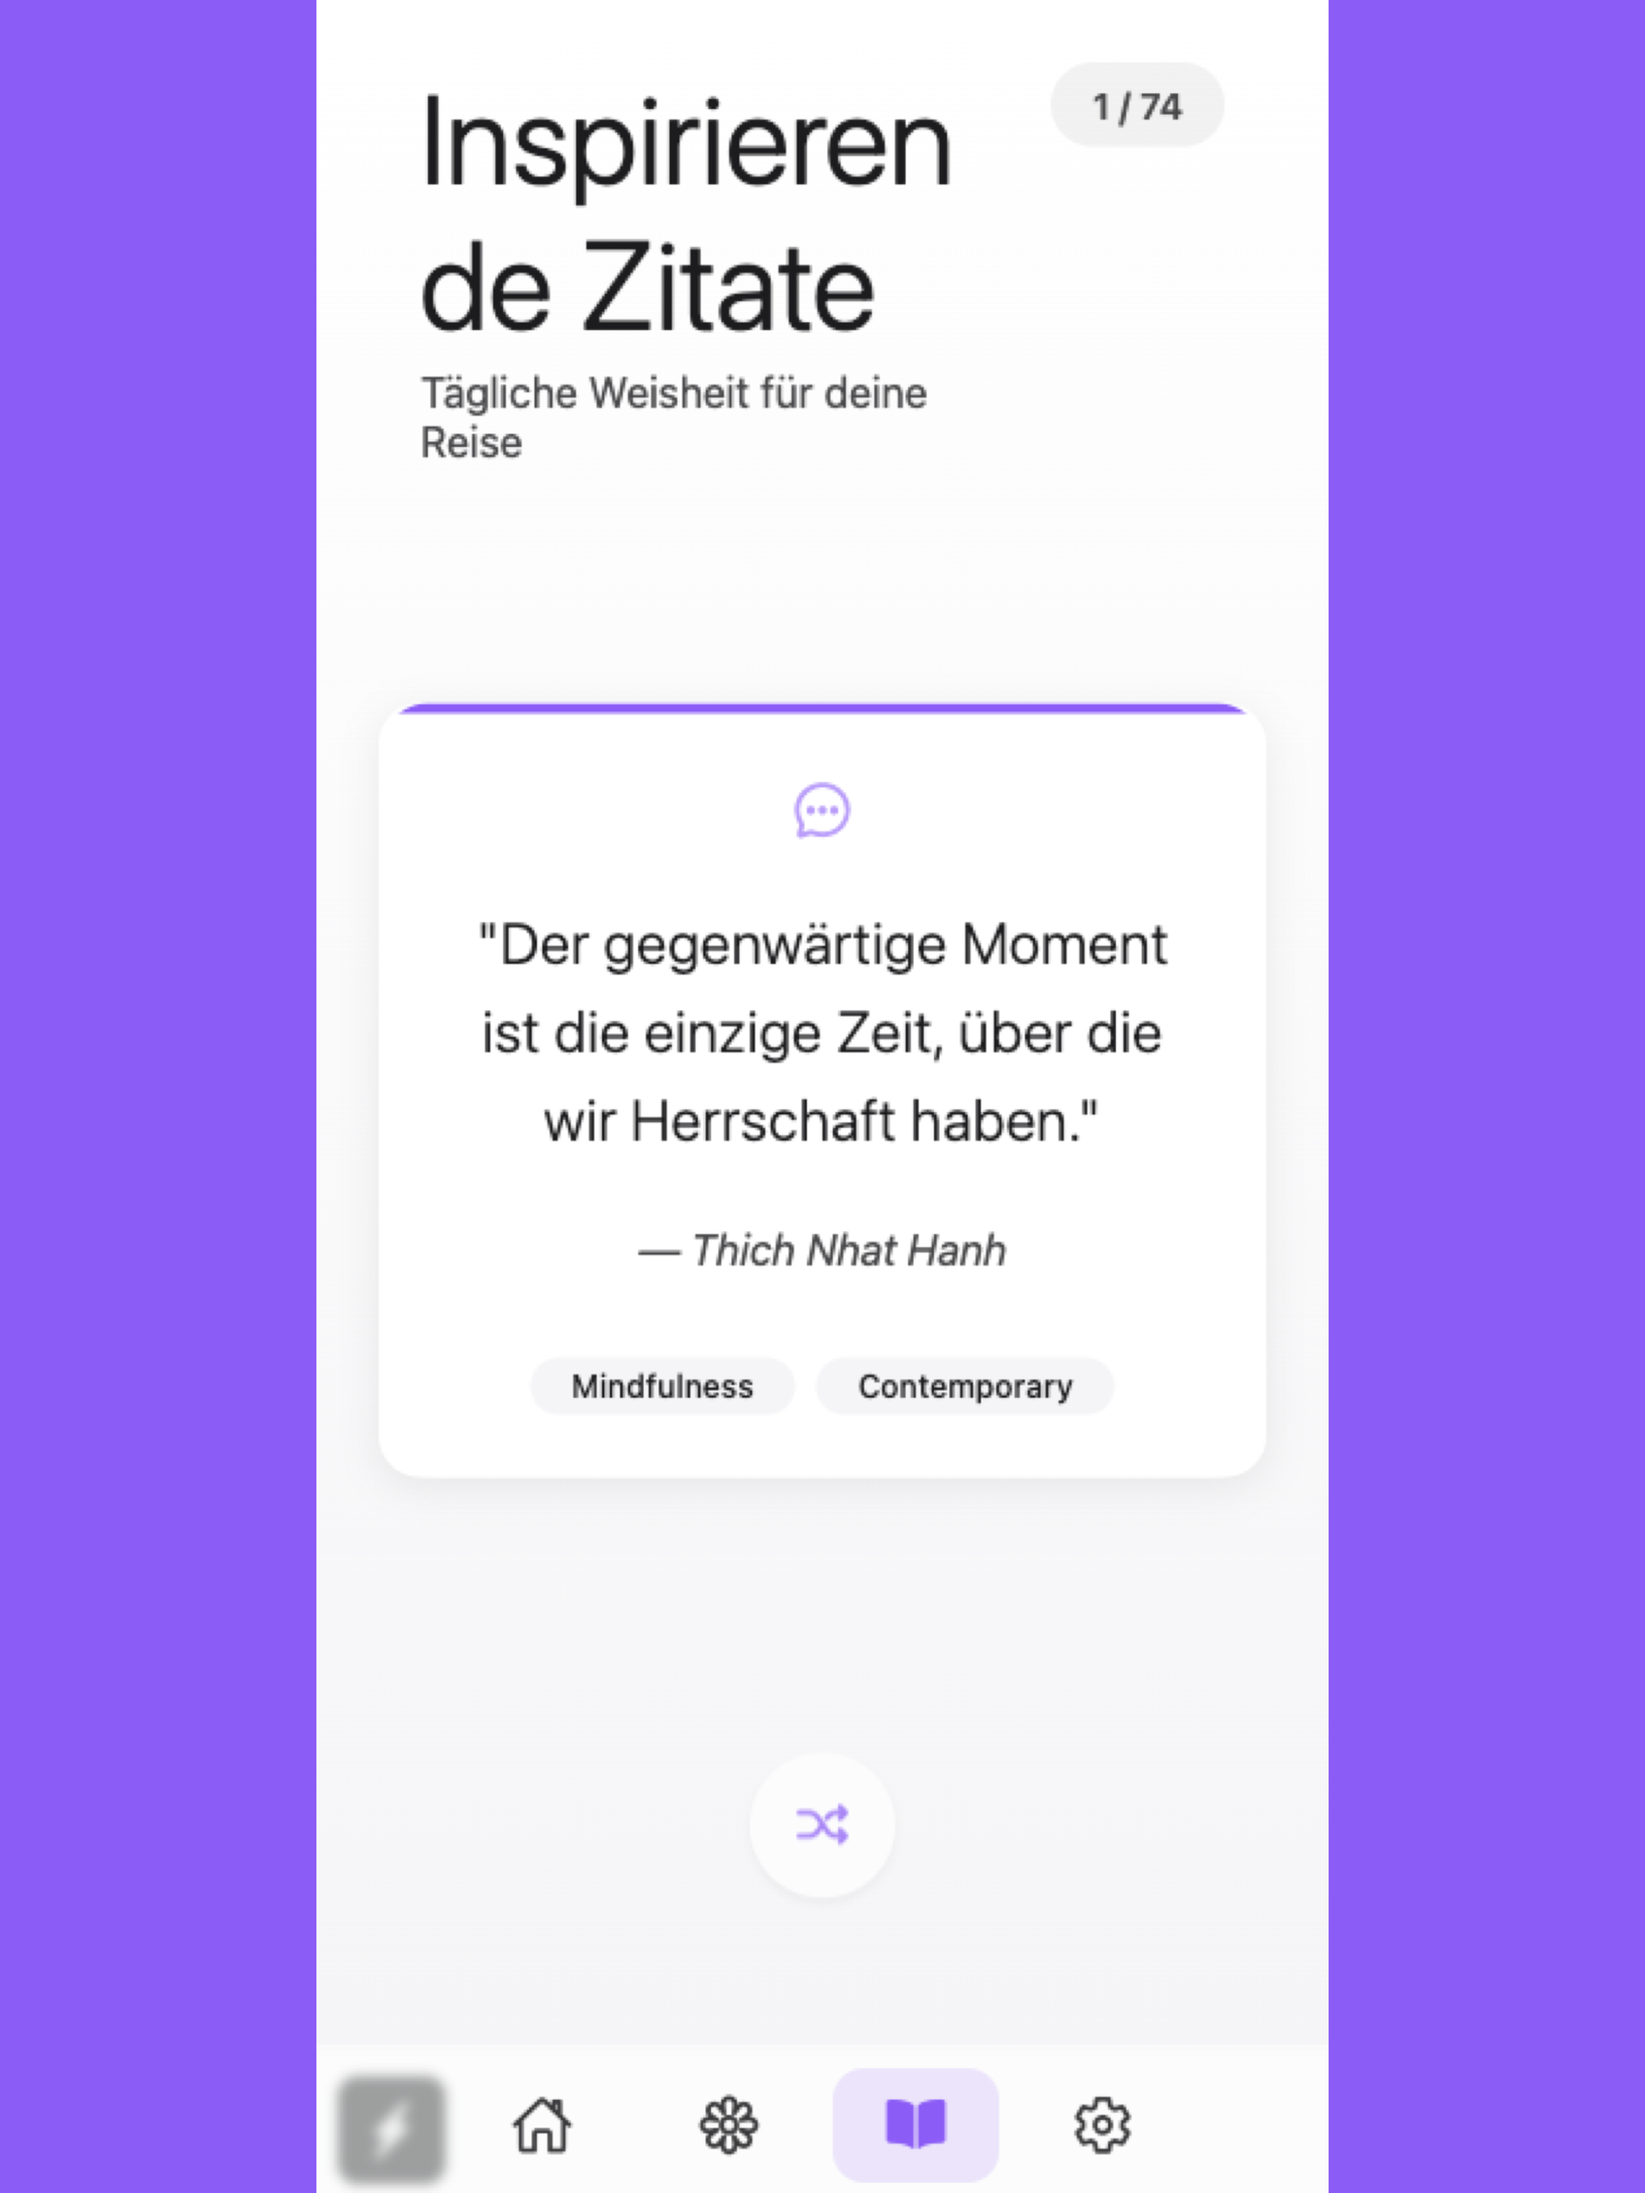
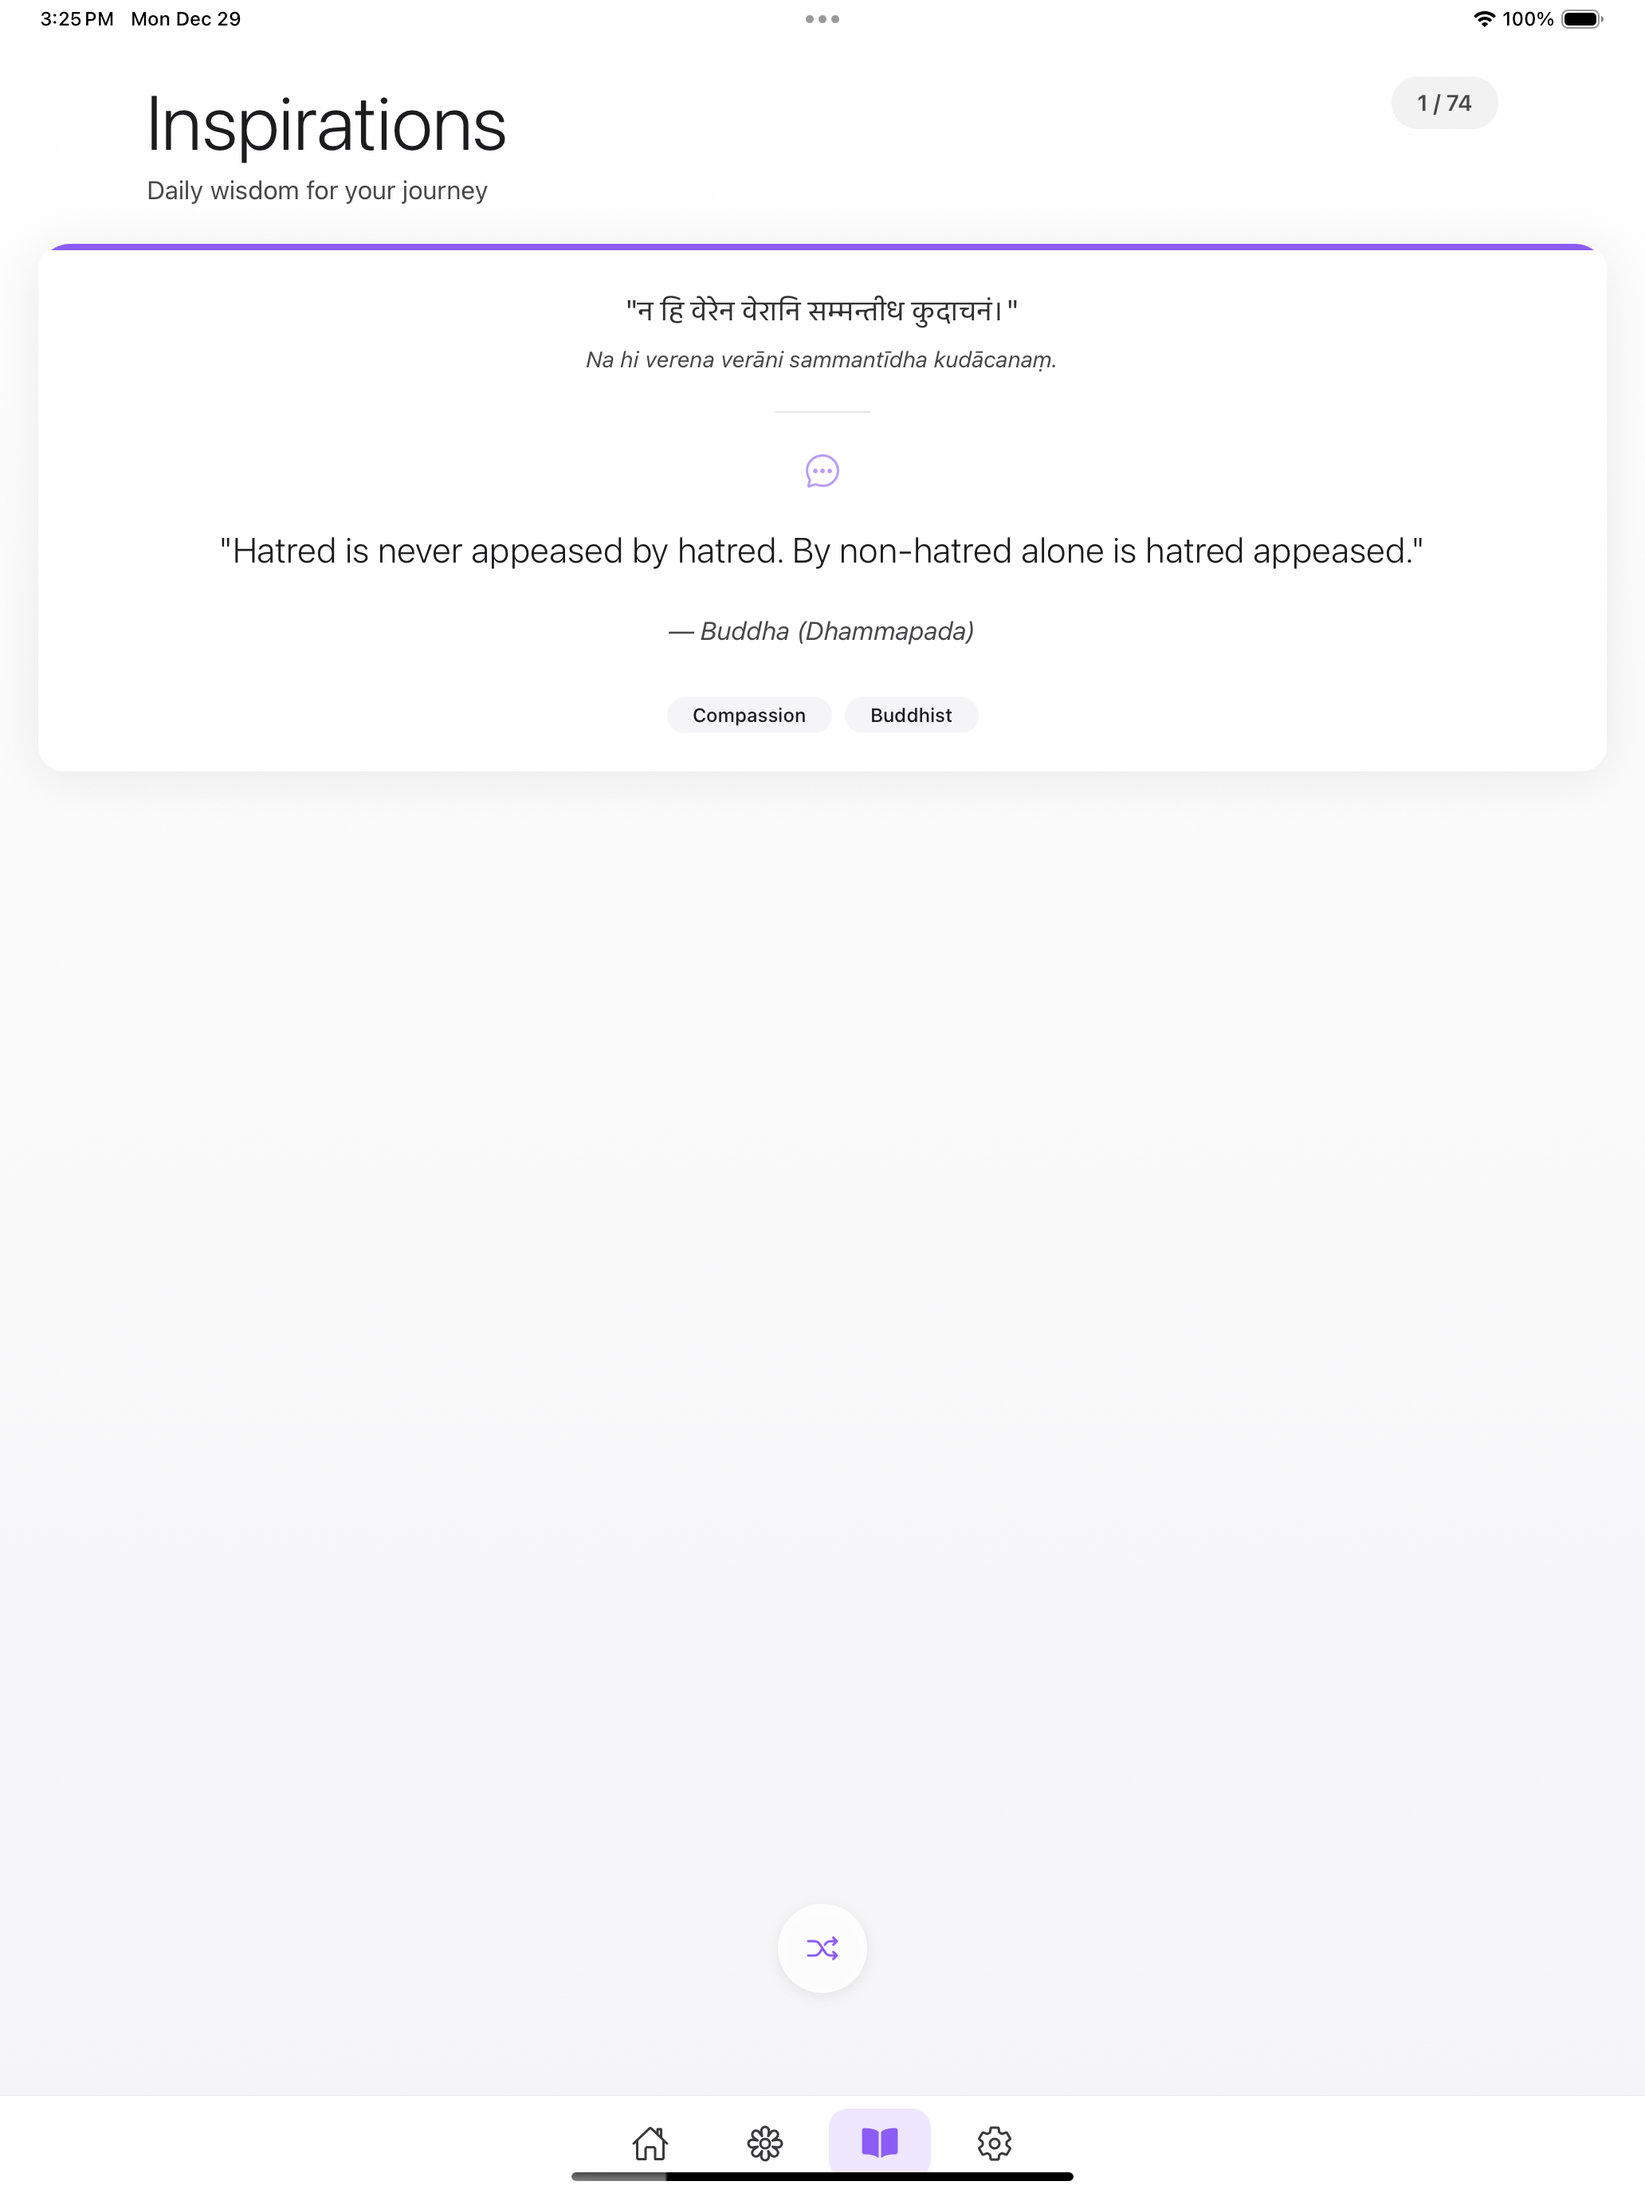
fix(mobile): improve iPad layout and fix screenshot naming
- Fix QuotesScreen layout for iPad (card at top instead of centered)
- Update generate-ios-metadata.js to use correct iPad device naming
- Update iPad screenshots for all locales

🤖 Generated with [Claude Code](https://claude.com/claude-code)

diff --git a/mobile/scripts/generate-ios-metadata.js b/mobile/scripts/generate-ios-metadata.js
@@ -49,12 +49,12 @@ const LOCALE_MAPPING = {
 
 // Screenshot device type mapping for Fastlane
 // Format: folder name -> Fastlane device name
-// NOTE: iPad Pro 13" uses APP_IPAD_PRO_13 display type (2064x2752)
+// NOTE: iPad Pro 13" (2064x2752) maps to APP_IPAD_PRO_3GEN_129
 const SCREENSHOT_DEVICES = {
   'iPhone 6.5': 'iPhone 6.5"',
   'iPhone 6.7': 'iPhone 6.7"',
   'iPhone 5.5': 'iPhone 5.5"',
-  'iPad Pro 13': 'iPad Pro 13',  // Maps to APP_IPAD_PRO_13 (2064x2752)
+  'iPad Pro 13': 'iPad Pro (12.9-inch) (3rd generation)',  // 2064x2752 -> APP_IPAD_PRO_3GEN_129
   'iPad Pro 12.9': 'iPad Pro (12.9-inch)',
   'iPad Pro 11': 'iPad Pro (11-inch)'
 };

diff --git a/mobile/src/screens/QuotesScreen.tsx b/mobile/src/screens/QuotesScreen.tsx
@@ -276,8 +276,9 @@ const styles = StyleSheet.create({
   },
   cardsContainer: {
     flex: 1,
-    justifyContent: 'center',
+    justifyContent: 'flex-start',
     alignItems: 'center',
+    paddingTop: theme.spacing.xl,
     paddingBottom: theme.spacing.xl,
   },
   bottomControls: {
